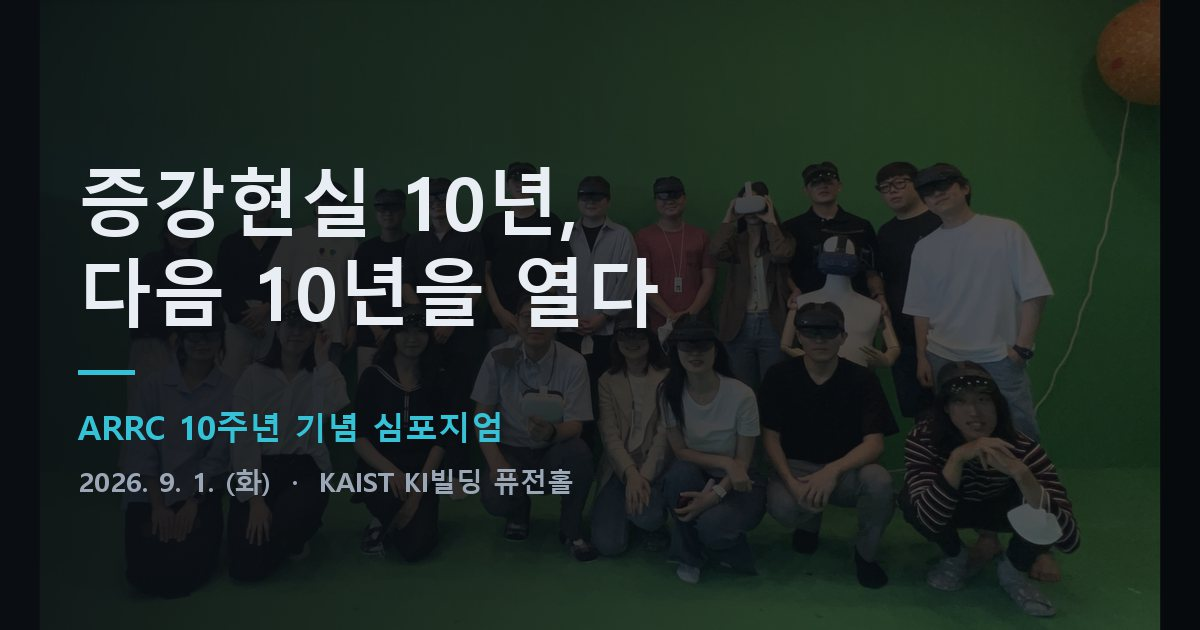
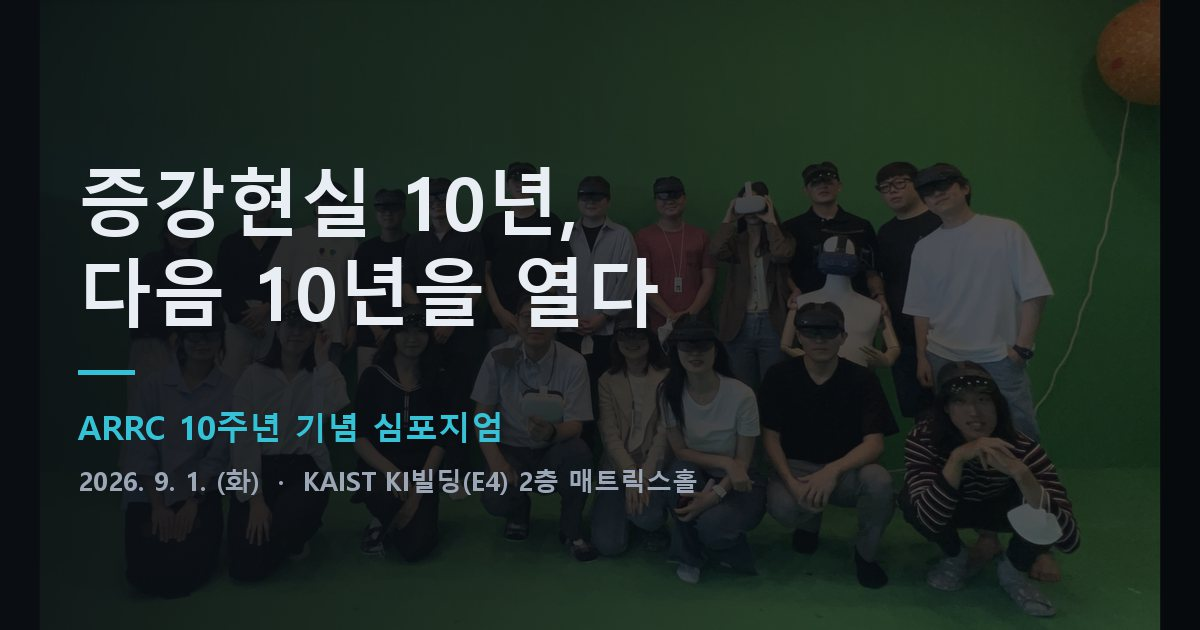
장소를 KI빌딩 2층 매트릭스홀로 변경
퓨전홀에서 매트릭스홀로 바뀌면서 층수까지 표기하게 되었다. 장소가
여섯 군데에 흩어져 있어 함께 고쳤다.

- 히어로 메타, 행사 개요, 오시는 길 주소 (한국어 원문과 영어 사전)
- 등록 안내 문구의 "퓨전홀 앞 접수 데스크"
- head 의 description 과 og:description
- og.jpg 는 장소가 이미지에 새겨져 있어 다시 생성했다

영문은 KI빌딩 2층 Matrix Hall 이 공식 명칭이라 "Matrix Hall, 2F" 로 적었다.
층수 확인이 필요하다고 적어 둔 README 항목은 해결되어 지웠고, 행사 종료
시각이 프로그램(15:30)과 어긋나 있던 것도 함께 맞췄다.

Claude-Session: https://claude.ai/code/session_01XL8yPbvMCm8DnuVxstAvz4

Changed region(s): [[0.0617, 0.7238, 0.5858, 0.7841]]

diff --git a/index.html b/index.html
@@ -4,7 +4,7 @@
 <meta charset="utf-8">
 <meta name="viewport" content="width=device-width, initial-scale=1">
 <title>ARRC 10주년 기념 심포지엄 | KAIST 증강현실연구센터</title>
-<meta name="description" content="KAIST 증강현실연구센터(ARRC) 개소 10주년 기념 심포지엄. 2026년 9월 1일(화) KAIST KI빌딩 퓨전홀.">
+<meta name="description" content="KAIST 증강현실연구센터(ARRC) 개소 10주년 기념 심포지엄. 2026년 9월 1일(화) KAIST KI빌딩(E4) 2층 매트릭스홀.">
 <meta name="theme-color" content="#0B0F14">
 
 <!-- 확정 전 초안이라 검색 노출을 막아 둡니다.
@@ -13,7 +13,7 @@
 
 <meta property="og:type" content="website">
 <meta property="og:title" content="ARRC 10주년 기념 심포지엄">
-<meta property="og:description" content="증강현실 10년, 다음 10년을 열다. 2026. 9. 1.(화) KAIST KI빌딩 퓨전홀.">
+<meta property="og:description" content="증강현실 10년, 다음 10년을 열다. 2026. 9. 1.(화) KAIST KI빌딩(E4) 2층 매트릭스홀.">
 <meta property="og:locale" content="ko_KR">
 <!-- 절대 경로여야 합니다. 도메인이 바뀌면 이 줄도 함께 고쳐 주세요. -->
 <meta property="og:url" content="https://kaist-arrc.github.io/arrc-10th/">
@@ -87,7 +87,7 @@
         </div>
         <div>
           <dt data-i18n="meta.venueLabel">장소</dt>
-          <dd data-i18n="meta.venue">KAIST KI빌딩(E4) 퓨전홀</dd>
+          <dd data-i18n="meta.venue">KAIST KI빌딩(E4) 2층 매트릭스홀</dd>
         </div>
       </dl>
 
@@ -140,7 +140,7 @@
       </div>
       <div class="facts__row">
         <dt data-i18n="about.k.where">장소</dt>
-        <dd data-i18n="about.v.where">KAIST KI빌딩(E4) 퓨전홀 · 대전광역시 유성구 대학로 291</dd>
+        <dd data-i18n="about.v.where">KAIST KI빌딩(E4) 2층 매트릭스홀 · 대전광역시 유성구 대학로 291</dd>
       </div>
       <div class="facts__row">
         <dt data-i18n="about.k.who">참가 대상</dt>
@@ -253,7 +253,7 @@
 
       <div class="venue__info">
         <h3 data-i18n="venue.addrHead">주소</h3>
-        <p class="venue__addr" data-i18n="venue.addr">대전광역시 유성구 대학로 291<br>KAIST KI빌딩(E4) 퓨전홀</p>
+        <p class="venue__addr" data-i18n="venue.addr">대전광역시 유성구 대학로 291<br>KAIST KI빌딩(E4) 2층 매트릭스홀</p>
         <p class="venue__links">
           <a href="https://naver.me/FO9wgBkX" target="_blank" rel="noopener">
             <i class="ph ph-map-pin" aria-hidden="true"></i><span data-i18n="venue.naver">네이버 지도에서 보기</span>

diff --git a/assets/js/i18n.js b/assets/js/i18n.js
@@ -33,7 +33,7 @@
     'meta.dateLabel':  'Date',
     'meta.date':       'Tue 1 Sep 2026, 13:00',
     'meta.venueLabel': 'Venue',
-    'meta.venue':      'Fusion Hall, KI Building (E4), KAIST',
+    'meta.venue':      'Matrix Hall, 2F, KI Building (E4), KAIST',
 
     'cd.head':  'Time remaining',
     'cd.days':  'days',
@@ -50,7 +50,7 @@
     'about.k.when':  'Date',
     'about.v.when':  'Tuesday 1 September 2026, 13:00 - 15:30',
     'about.k.where': 'Venue',
-    'about.v.where': 'Fusion Hall, KI Building (E4), KAIST · 291 Daehak-ro, Yuseong-gu, Daejeon',
+    'about.v.where': 'Matrix Hall, 2F, KI Building (E4), KAIST · 291 Daehak-ro, Yuseong-gu, Daejeon',
     'about.k.who':   'Who should come',
     'about.v.who':   'XR researchers, industry practitioners, graduate students and anyone curious about the field',
     'about.k.host':  'Host',
@@ -82,7 +82,7 @@
 
     'venue.title':       'Getting here',
     'venue.addrHead':    'Address',
-    'venue.addr':        '291 Daehak-ro, Yuseong-gu, Daejeon<br>Fusion Hall, KI Building (E4), KAIST',
+    'venue.addr':        '291 Daehak-ro, Yuseong-gu, Daejeon<br>Matrix Hall, 2F, KI Building (E4), KAIST',
     'venue.naver':       'Open in Naver Map',
     'venue.transitHead': 'Transport',
     'venue.t1.k': 'Daejeon Station (KTX)',

diff --git a/assets/js/program.js b/assets/js/program.js
@@ -14,8 +14,8 @@ window.ARRC_PROGRAM = [
   {
     time: '12:30 - 13:00',
     kind: 'break',
-    ko: { title: '등록', desc: '퓨전홀 앞 접수 데스크에서 명찰을 수령해 주세요.' },
-    en: { title: 'Registration', desc: 'Pick up your badge at the desk in front of Fusion Hall.' }
+    ko: { title: '등록', desc: '매트릭스홀 앞 접수 데스크에서 명찰을 수령해 주세요.' },
+    en: { title: 'Registration', desc: 'Pick up your badge at the desk in front of Matrix Hall.' }
   },
   {
     time: '13:00 - 13:10',

diff --git a/README.md b/README.md
@@ -4,8 +4,8 @@ KAIST 증강현실연구센터(ARRC) 개소 10주년 기념 행사 안내 사이
 빌드 도구 없이 동작하는 정적 사이트라, 파일을 그대로 올리면 바로 서비스됩니다.
 
 - 공개 주소: <https://kaist-arrc.github.io/arrc-10th/>
-- 행사일: 2026년 9월 1일 (화) 13:00 - 17:30
-- 장소: KAIST KI빌딩(E4) 퓨전홀
+- 행사일: 2026년 9월 1일 (화) 13:00 - 15:30
+- 장소: KAIST KI빌딩(E4) 2층 매트릭스홀
 
 > 현재는 확정 전 초안이라 상단에 안내 배너가 떠 있고 검색 색인을 막아 둔 상태입니다.
 > 해제 방법은 아래 "공개 전 반드시 확인할 것" 첫 항목을 참고하세요.
@@ -172,7 +172,6 @@ REGISTER_URL: 'https://forms.gle/xxxxxxxx',
 - [ ] **연혁** - `timeline.js` 는 ARRC 공개 자료를 바탕으로 재구성한 예시입니다.
       센터 공식 연혁으로 검수 후 교체
 - [ ] **신청 마감일** - `index.html` 의 `reg.deadline`, `i18n.js` 의 동일 키
-- [ ] **퓨전홀 층수** - 현재 표기하지 않았습니다. 확인 후 장소 표기에 추가
 - [ ] **지도 핀 위치** - 주소 검색 결과 기준입니다. 실제 건물 위치와 맞는지 확인
 - [ ] **주차 안내** - 현재 "추후 공지"로 되어 있습니다
 - [ ] **후원 · 협력 기관 목록** - meta.kaist.ac.kr(메타버스대학원)의 Hosted /
